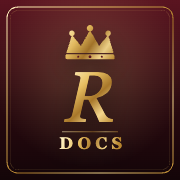
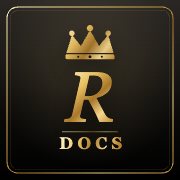
Add files via upload

diff --git a/index.html b/index.html
@@ -5,7 +5,7 @@
 <meta name="viewport" content="width=device-width, initial-scale=1, viewport-fit=cover">
 <title>Re d'Italia Docs</title>
 <meta name="robots" content="noindex">
-<meta name="theme-color" content="#2a0b11">
+<meta name="theme-color" content="#000000">
 <meta name="apple-mobile-web-app-capable" content="yes">
 <meta name="mobile-web-app-capable" content="yes">
 <meta name="apple-mobile-web-app-status-bar-style" content="black-translucent">
@@ -17,14 +17,14 @@
 <link href="https://fonts.googleapis.com/css2?family=Cormorant+Garamond:ital,wght@0,500;0,600;1,500&family=Manrope:wght@400;600;700&display=swap" rel="stylesheet">
 <style>
 /* VOICE: l'ufficio della maison in tasca, chiaro e immediato.
-   IDEA: un archivio rilegato con sette dorsi, uno per tipo di documento.
-   PICTURE: l'icona con la corona e le sette sezioni come dorsi dorati da scegliere.
-   COLOUR and TYPE: bordeaux, oro, avorio; Cormorant Garamond per i titoli, Manrope per il resto.
-   LAYOUT: intestazione compatta, sette dorsi in griglia, elenco documenti sotto, guida di installazione in fondo. */
-:root{color-scheme:dark;--bg:#1a070b;--card:#2a0d13;--line:rgba(232,191,98,.28);--gold:#e8bf62;--gold2:#f6dc98;--ink:#f3ead8;--soft:#cdb9a0}
+   IDEA: un archivio rilegato con sei dorsi, uno per tipo di documento.
+   PICTURE: l'icona con la corona e le sei sezioni come dorsi dorati da scegliere.
+   COLOUR and TYPE: nero, oro, avorio; Cormorant Garamond per i titoli, Manrope per il resto.
+   LAYOUT: intestazione compatta, sei dorsi in griglia, elenco documenti sotto, guida di installazione in fondo. */
+:root{color-scheme:dark;--bg:#050505;--card:#141210;--line:rgba(232,191,98,.28);--gold:#e8bf62;--gold2:#f6dc98;--ink:#f3ead8;--soft:#cdb9a0}
 *{box-sizing:border-box;min-width:0}
 html{-webkit-text-size-adjust:100%}
-body{margin:0;min-height:100vh;background:radial-gradient(ellipse at 50% -10%,#5a1420 0%,#2a0b11 45%,#12050a 100%) fixed,var(--bg);color:var(--ink);font:17px/1.55 Manrope,system-ui,sans-serif;padding:env(safe-area-inset-top) 0 env(safe-area-inset-bottom)}
+body{margin:0;min-height:100vh;background:radial-gradient(ellipse at 50% -10%,#2a2620 0%,#0d0c0b 45%,#000 100%) fixed,var(--bg);color:var(--ink);font:17px/1.55 Manrope,system-ui,sans-serif;padding:env(safe-area-inset-top) 0 env(safe-area-inset-bottom)}
 .wrap{max-width:980px;margin:0 auto;padding:22px 16px 48px}
 .top{display:flex;align-items:center;gap:14px}
 .top img{width:64px;height:64px;border-radius:15px;box-shadow:0 8px 20px rgba(0,0,0,.5),0 0 0 1px rgba(232,191,98,.35)}
@@ -90,8 +90,7 @@ const C=[
  {t:"Approfondimenti",s:"I libretti delle opere",id:"1hq2YVq-z_rbTBS9-9GcXczskYkmnPSrc"},
  {t:"Metodologie di vendita",s:"Analitica e sintetica",id:"1gBWqyt8-oXubmd58SIi_5uoIN5_BY9nC"},
  {t:"Dispense tecniche",s:"Per prepararsi all’incontro",id:"1CpstZyncIzS_MQWMrNt1nMm-s_nn8DDB"},
- {t:"Rassegna stampa",s:"Dicono di noi",id:"1t_iMMNDhAhvNDIhP-Ndi1iAUxNozNbzE"},
- {t:"Spagna Docs",s:"Documentos en español",id:"1lS293tgVNBWT6fjTNSTvJxHBus2hkz8R"}
+ {t:"Rassegna stampa",s:"Dicono di noi",id:"1t_iMMNDhAhvNDIhP-Ndi1iAUxNozNbzE"}
 ];
 const sp=document.getElementById("spines"),fr=document.getElementById("frame"),op=document.getElementById("open");
 sp.innerHTML=C.map((c,i)=>`<button class="spine" role="tab" data-i="${i}" aria-selected="false"><b>${c.t}</b><span>${c.s}</span></button>`).join("");
